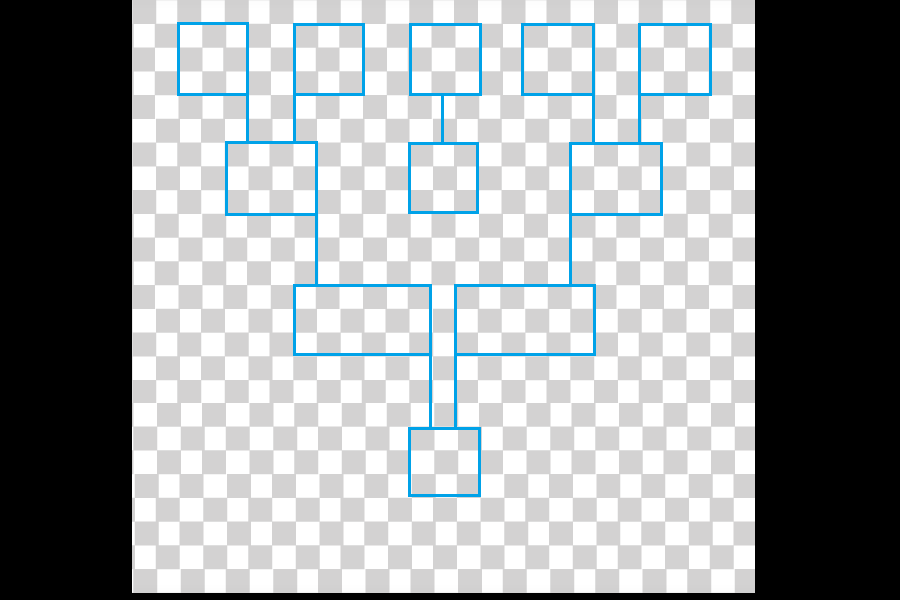
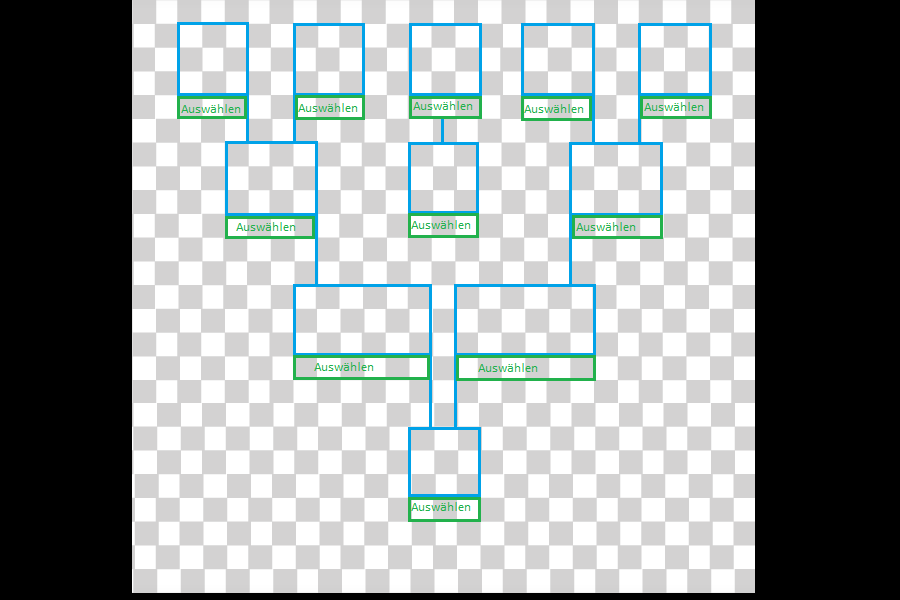
Skilltree zwischenstand mit feedback wenn skill ausgwehlt fuer erste reihe

diff --git a/GruppeB4/GruppeB4/Skilltree.h b/GruppeB4/GruppeB4/Skilltree.h
@@ -6,20 +6,36 @@
 using namespace std;
 
 
+class Player;
 
 class Skilltree
 {
 
 
 private:
-	Skilltree(){t1_1Timer = new Timer();}
+	Skilltree(){t1_1Timer = new Timer();t1_2Timer = new Timer();t1_3Timer = new Timer;t1_4Timer = new Timer();t1_5Timer = new Timer();overlayTimer = new Timer();}
 	~Skilltree(){}
 
-	Timer * t1_1Timer;
+	
 	int i_skillpoint;
 	bool b_t11;
 	bool b_t1_1_over;
+	bool b_t1_2_over;
+	bool b_t12;
+	bool b_t13;
+	bool b_t1_3_over;
+	bool b_t14;
+	bool b_t1_4_over;
+	bool b_t15;
+	bool b_t1_5_over;
 	SDL_Event even;
+	Player * p_Player;
+	Timer * t1_1Timer;
+	Timer * t1_2Timer;
+	Timer * t1_3Timer;
+	Timer * t1_4Timer;
+	Timer * t1_5Timer;
+	Timer * overlayTimer;
 
 
 public:
@@ -28,10 +44,11 @@ public:
 	void set_skillpoint(){i_skillpoint++; cout << "LVL UP" << endl; cout << i_skillpoint << endl;}
 	int get_skillpoint();
 	void handleInput(SDL_Event &even,bool *skilltreeisopen);
-	
+	void administrate_skills(Player *p_Player,bool b_t11);
 
 	
 	void render(SDL_Event &even);
+	void check_skilled();
 
 
 

diff --git a/GruppeB4/GruppeB4/Resourcemanager.cpp b/GruppeB4/GruppeB4/Resourcemanager.cpp
@@ -78,7 +78,12 @@ void S_Resourcemanager::initialize()
 	this->p_ep_120 = IMG_Load("ep_120.png");
 	this->p_ep_125 = IMG_Load("ep_125.png");
 	this->p_skilltree = IMG_Load("skilltree.png");
+	this->p_t1_2 = IMG_Load("t1_mana_-10.png");
 	this->p_t1_1 = IMG_Load("t1_1.png");
+	this->p_t1_3 = IMG_Load("t1_shop_-2.png");
+	this->p_t1_4 = IMG_Load("t1_mana_speed.png");
+	this->p_t1_5 = IMG_Load("t1_dmgMelee.png");
+	this->p_check = IMG_Load("check.png");
 	
 	if(p_spritze == NULL)
 	{
@@ -523,6 +528,26 @@ SDL_Surface * S_Resourcemanager::get_Surface(string key)
 	else if(key == "t1_1")
 	{
 		return p_t1_1;
+	}
+	else if(key == "t1_2")
+	{
+		return p_t1_2;
+	}
+	else if(key == "t1_3")
+	{
+		return p_t1_3;
+	}
+	else if(key == "t1_4")
+	{
+		return p_t1_4;
+	}
+	else if(key == "t1_5")
+	{
+		return p_t1_5;
+	}
+	else if(key == "check")
+	{
+		return p_check;
 	}
 	else
 	{

diff --git a/GruppeB4/GruppeB4/World.cpp b/GruppeB4/GruppeB4/World.cpp
@@ -29,6 +29,7 @@ void World::update()
 	WeaponManager::get_WeaponManager().update(this->p_Player1->get_Position());
 	MoneyManager::get_MoneyManager().update(this->p_Player1->get_Position());
 	ArmorManager::get_ArmorManager().update(this->p_Player1->get_Position());
+	
 
 	
 	if(collision_Detection() == true)

diff --git a/GruppeB4/GruppeB4/Resourcemanager.h b/GruppeB4/GruppeB4/Resourcemanager.h
@@ -77,6 +77,12 @@ private:
 	SDL_Surface * p_ep_125;
 	SDL_Surface * p_skilltree;
 	SDL_Surface * p_t1_1;
+	SDL_Surface * p_t1_2;
+	SDL_Surface * p_t1_3;
+	SDL_Surface * p_t1_4;
+	SDL_Surface * p_t1_5;
+	SDL_Surface * p_check;
+	
 	
 public:
 	TTF_Font * font;
